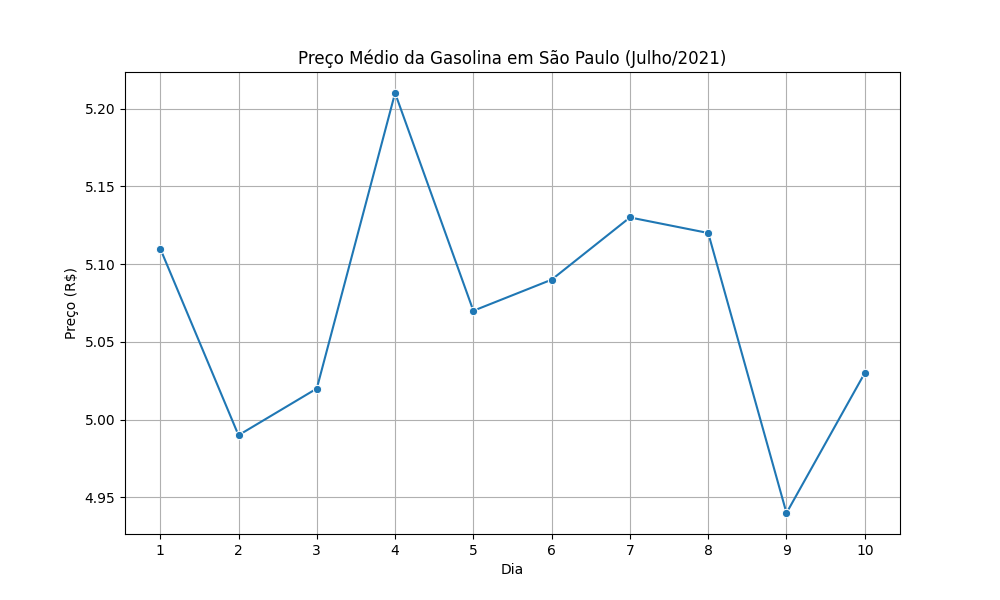
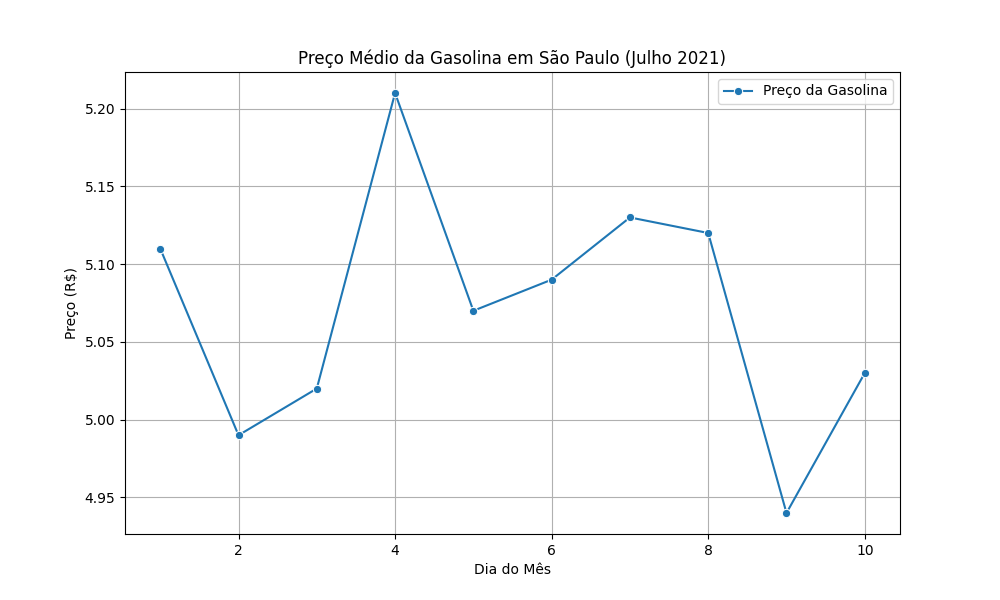
Adiciona gráfico de gasolina e script de geração na branch develop

Changed region(s): [[0.713, 0.12, 0.899, 0.18], [0.465, 0.93, 0.558, 0.96], [0.682, 0.09, 0.713, 0.12]]

diff --git a/gasolina.py b/gasolina.py
@@ -2,20 +2,19 @@ import pandas as pd
 import seaborn as sns
 import matplotlib.pyplot as plt
 
-# 1. Carregar os dados do arquivo gasolina.csv
-df_gasolina = pd.read_csv('gasolina.csv')
+# Read the CSV file
+df = pd.read_csv('gasolina.csv')
 
-# 2. Gerar o gráfico de linha
+# Create the plot
 plt.figure(figsize=(10, 6))
-sns.lineplot(x='dia', y='venda', data=df_gasolina, marker='o')
-plt.title('Preço Médio da Gasolina em São Paulo (Julho/2021)')
-plt.xlabel('Dia')
+sns.lineplot(x='dia', y='venda', data=df, marker='o', label='Preço da Gasolina')
+plt.title('Preço Médio da Gasolina em São Paulo (Julho 2021)')
+plt.xlabel('Dia do Mês')
 plt.ylabel('Preço (R$)')
 plt.grid(True)
-plt.xticks(df_gasolina['dia'])
+plt.legend()
 
-# 3. Salvar o gráfico no arquivo gasolina.png
+# Save the plot as a PNG file
 plt.savefig('gasolina.png')
 
-# Exibir o gráfico (opcional)
-# plt.show()
+# plt.show() # Commented out to prevent plot from showing when script is run independently
